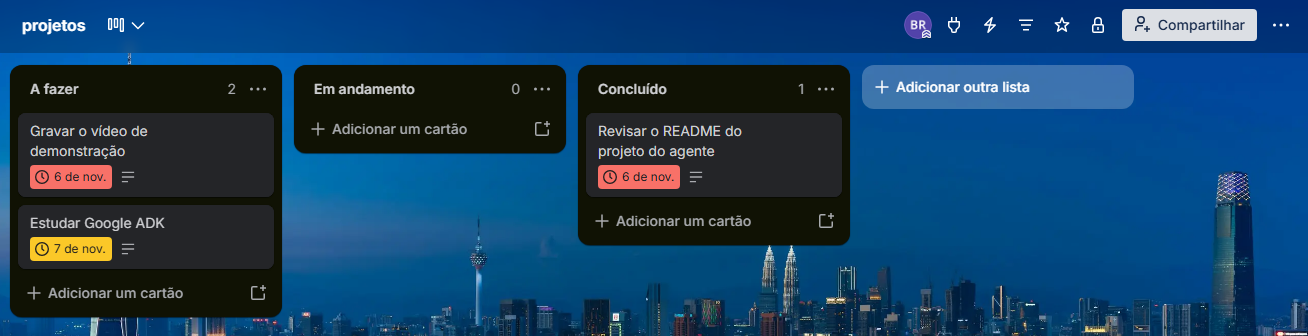
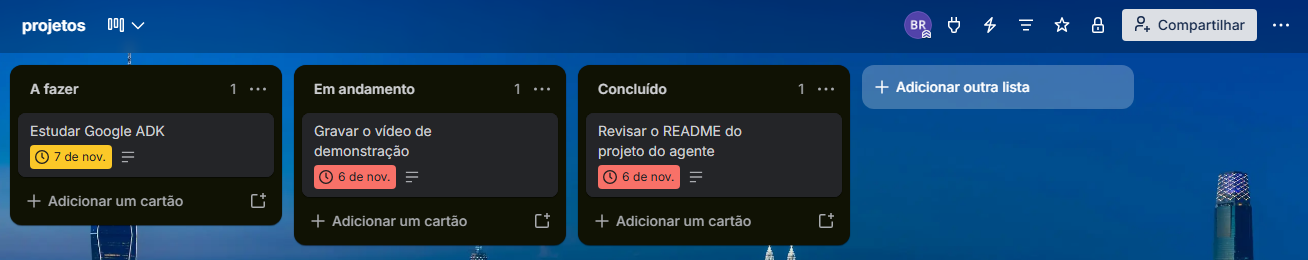
docs: atualiza print do quadro e documenta limite de cota do Gemini

diff --git a/README.md b/README.md
@@ -69,7 +69,10 @@ Todas as ferramentas retornam `{"resultado": "sucesso" | "erro", "mensagem": ...
 
 O modelo padrão é `gemini-3.8-flash`. O `gemini-2.5-flash`, usado no projeto original, retorna *404 "no longer available to new users"* para chaves novas. Para usar outro modelo, defina `GEMINI_MODEL` no `.env` (ex.: `gemini-3.5-flash`).
 
-Se o agente responder com erro **503 UNAVAILABLE** ("high demand"), o modelo está temporariamente sobrecarregado no Google. Espere alguns minutos ou troque o `GEMINI_MODEL`.
+Erros comuns do Gemini no plano gratuito:
+
+- **503 UNAVAILABLE ("high demand"):** sobrecarga temporária do modelo. O agente já tenta de novo sozinho. Se persistir, espere alguns minutos ou troque o `GEMINI_MODEL`.
+- **429 RESOURCE_EXHAUSTED ("requests per day"):** acabou a cota diária gratuita (cerca de 20 requisições por dia, **por modelo**). Esperar alguns segundos não resolve. Troque o `GEMINI_MODEL` (ex.: `gemini-3.5-flash-lite`, que tem cota própria) ou espere a cota renovar no dia seguinte. Cada mensagem pode gastar 2 ou mais requisições, porque cada chamada de ferramenta é uma ida ao modelo.
 
 ## 6. Configuração do Trello
 
@@ -212,7 +215,7 @@ Na mensagem seguinte, o Gemini respondeu **503 "high demand"**, uma sobrecarga t
 
 ![Agente movendo a tarefa entre listas no adk web](docs/img/adk-web-mudar-status.png)
 
-**Quadro do Trello depois da conversa.** Os cards foram criados pelo agente, com as datas certas (06/11 e 07/11), e o README já foi movido para Concluído:
+**Quadro do Trello depois das conversas.** Os cards foram criados e movidos pelo agente: um em cada lista, com as datas certas (06/11 e 07/11):
 
 ![Quadro do Trello atualizado pelo agente](docs/img/trello-board.png)
 
